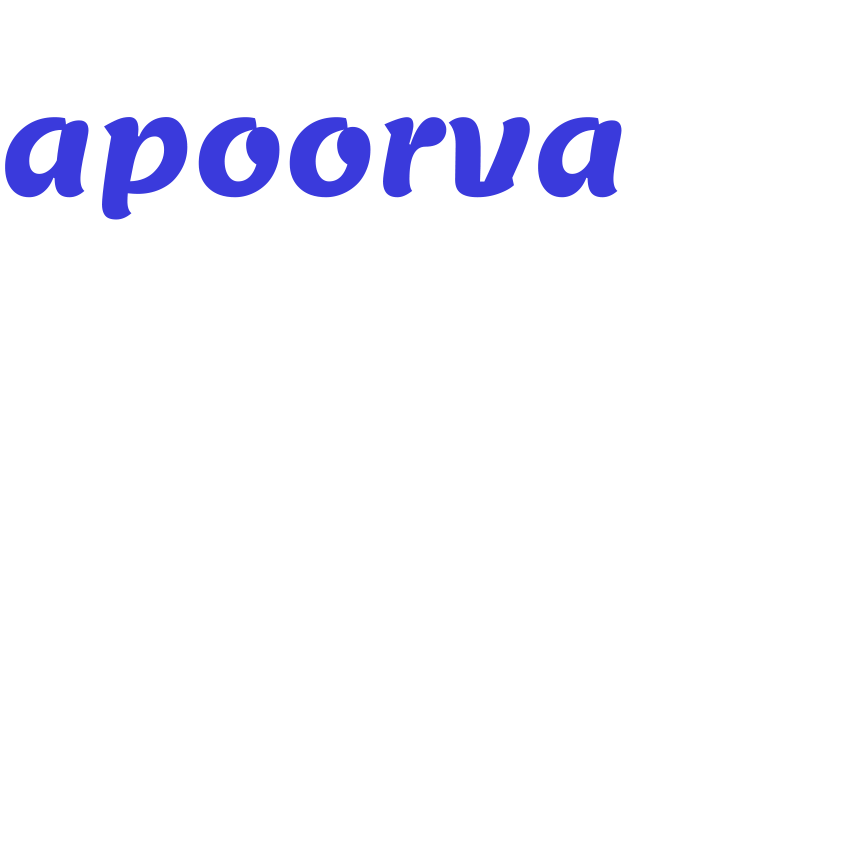
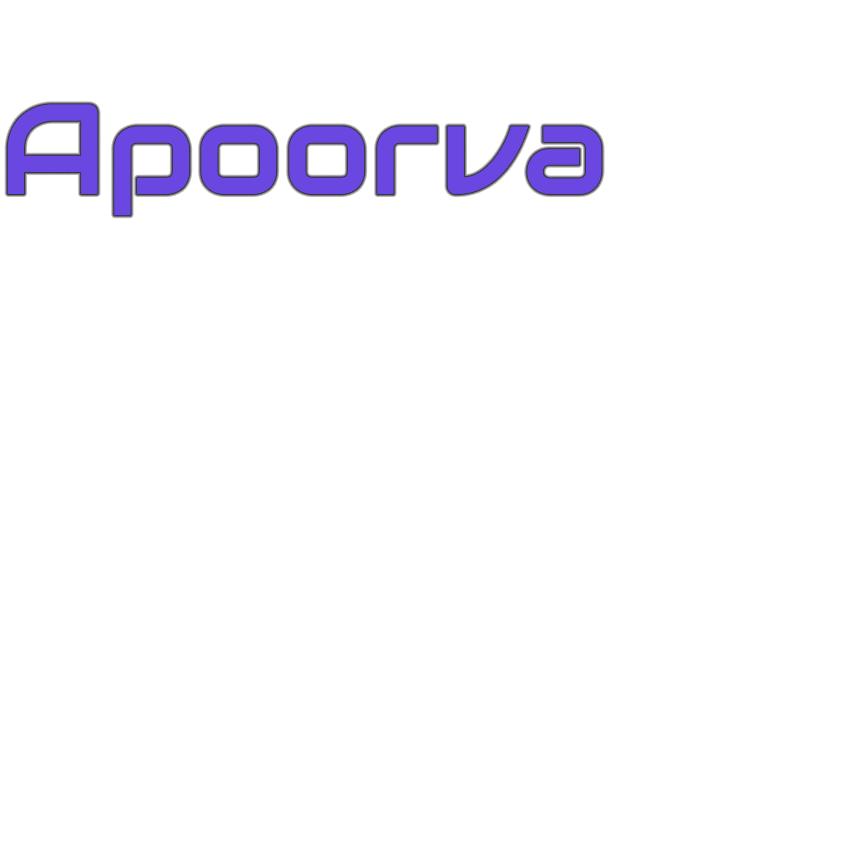
opik

Changed region(s): [[0.0, 0.0918, 0.7341, 0.2753]]

diff --git a/index.html b/index.html
@@ -15,6 +15,8 @@
 	<link rel="stylesheet" href="https://maxcdn.bootstrapcdn.com/bootstrap/3.3.7/css/bootstrap.css">
 	<script src="https://maxcdn.bootstrapcdn.com/bootstrap/3.3.7/js/bootstrap.min.js"></script>
 	
+	<link href="https://fonts.googleapis.com/css?family=Roboto+Slab|Montserrat|Audiowide|Amaranth" rel="stylesheet">
+	
 	<script src="parallax.js"></script>
 	
 	<script type="text/javascript">
@@ -27,15 +29,18 @@
 
 <body>
 
+
+
 <div id="fullpage">
 	<div class="section"> 
+	    <div class="logo">
+			<div class="container">Anubhav &amp; Apoorva</div>
+		</div>
 		<div id="container" class="container">
 			<div class="row">    
 				<div class="col-xs-12"> 
-					<div id="scene1" class="scene">
-						<div class="layer box center" data-depth="0.3"><img class="img-responsive" src="images/box.jpg" ></div>
-						<div class="layer" data-depth="0.55"><img class="img-responsive" src="images/photo-anubhav.png"></div>
-						<div class="layer" data-depth="0.80"><img class="img-responsive" src="images/name-anubhav.png"></div>
+					<div id="scene3" class="scene">
+						<div class="layer" data-depth="0.43"><img class="img-responsive" src="images/landing-page.png" ></div>
 					</div>
 				</div>
 			</div>
@@ -54,6 +59,20 @@
 			</div>
 		</div>
 	</div>
+	<div class="section"> 
+		<div id="container" class="container">
+			<div class="row">    
+				<div class="col-xs-12"> 
+					<div id="scene1" class="scene">
+						<div class="layer box center" data-depth="0.3"><img class="img-responsive" src="images/box.jpg" ></div>
+						<div class="layer" data-depth="0.55"><img class="img-responsive" src="images/photo-anubhav.png"></div>
+						<div class="layer" data-depth="0.80"><img class="img-responsive" src="images/name-anubhav.png"></div>
+					</div>
+				</div>
+			</div>
+		</div>
+	</div>
+
 
 </div>
 	
@@ -64,6 +83,8 @@
 	var parallax = new Parallax(scene1);
 	var scene2 = document.getElementById('scene2');
 	var parallax = new Parallax(scene2);
+		var scene3 = document.getElementById('scene3');
+	var parallax = new Parallax(scene3);
 
 	</script>
  

diff --git a/style.css b/style.css
@@ -22,3 +22,33 @@ body {
     margin: auto;
 }
 
+.logo {
+	position: absolute;
+	top: 50px;
+	left: 0;
+	font-weight: 700;
+	font-weight: 900;
+	z-index: 999;
+	width: 100%;
+	font-family: 'Audiowide', cursive;
+	font-size: 1.3em;
+	color: #f22a62;
+	animation-name: 'logo-animation';
+	animation-duration: 2s;
+	animation-iteration-count: infinite;
+
+	-webkit-animation-name: 'logo-animation';
+	-webkit-animation-duration: 2s;
+	-webkit-animation-iteration-count: infinite;
+}
+@keyframes 'logo-animation' {
+    0% 		{ color: #f22a62;}
+    50% 	{color: #FFF;}
+    100% 	{color: #f22a62;}
+}
+@-webkit-keyframes 'logo-animation' {
+    0% 		{ color: #f22a62;}
+    50% 	{color: #FFF;}
+    100% 	{color: #f22a62;}
+}
+
